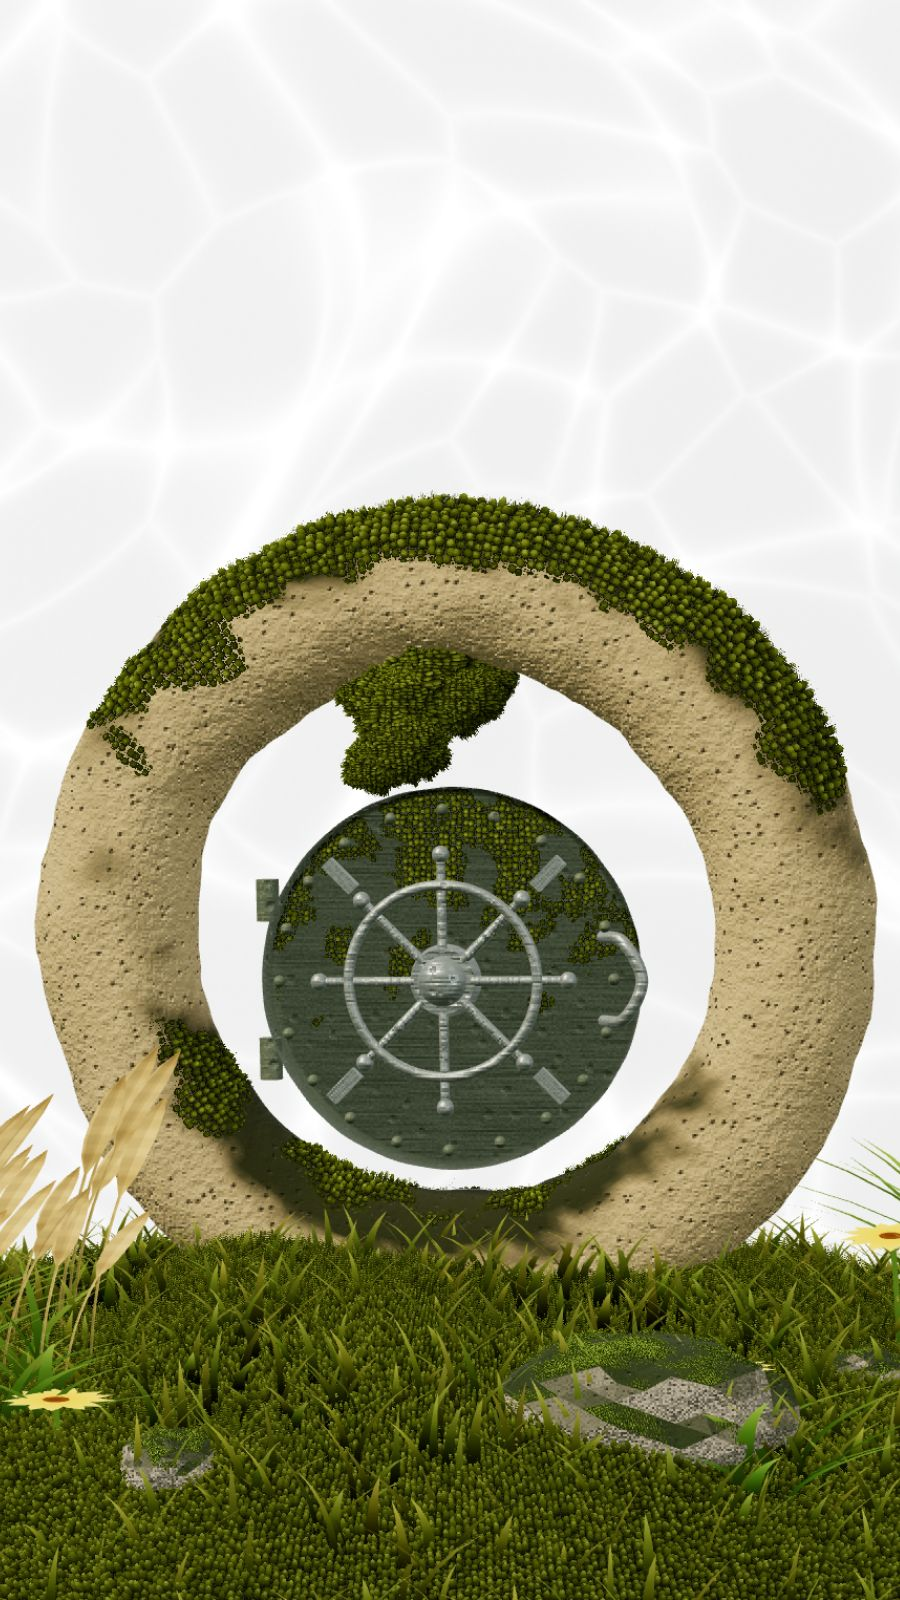
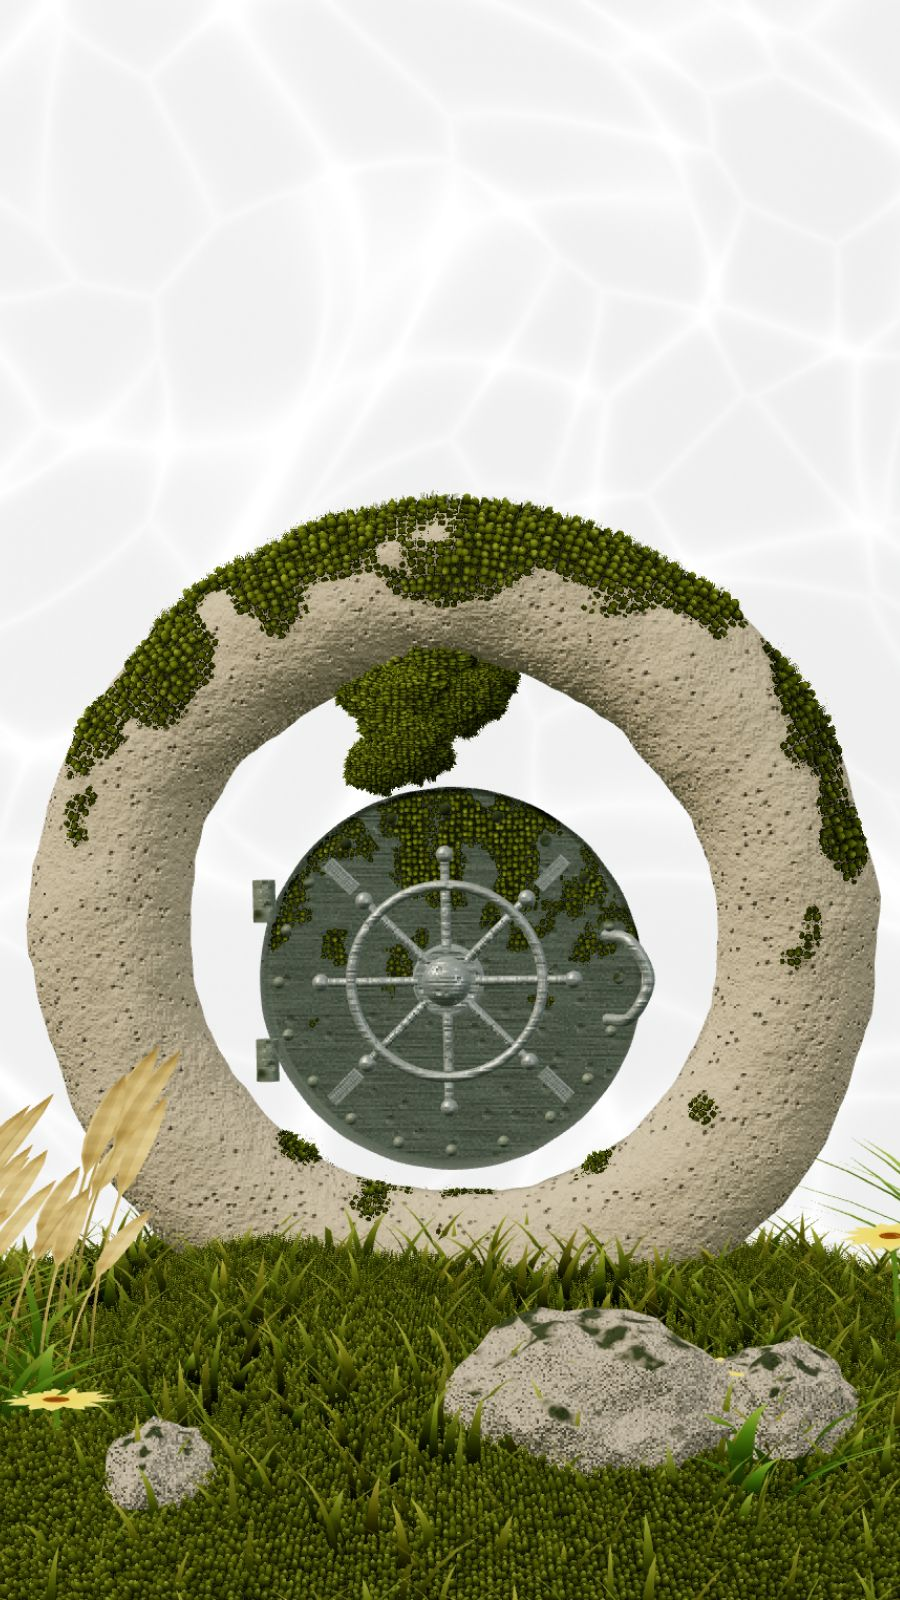
OQURO: closer tones to the shot, rounder rocks, vault opener as a button
Greyer stone, lighter steel, a darker threat card, a more frontal ring; moss
on surfaces worked out per pixel so coarse meshes show no facets; the moss on
the first letter anchored to where the letter rests; the footer word scaled
in the markup; the picker's OQURO trace drawn in dark ink; stills and share
image re-rendered.

Claude-Session: https://claude.ai/code/session_01XdHoYduenxD2TKkmvZHCgz

Changed region(s): [[0.0311, 0.3125, 1.0, 0.9375], [0.0933, 0.875, 0.2489, 0.9688]]

diff --git a/oquro/js/hero3d.js b/oquro/js/hero3d.js
@@ -47,14 +47,14 @@ export async function init() {
   // ---- the ring ----
   const ringG = K.ringGeometry({ outer: 1, inner: 0.63, depth: 0.36, corner: 0.17, segments: low ? 180 : 260, profile: low ? 56 : 80 });
   K.displace(ringG, (x, y, z) => noise3(x * 1.3, y * 1.3, z * 1.3) * 0.014 + noise3(x * 4.2 + 3, y * 4.2, z * 4.2) * 0.009 + noise3(x * 12, y * 12, z * 12) * 0.004);
-  const RING_MOSS = { moss: -0.1, mossUp: 1.35, mossY: 0.3, mossScale: 2.0, mossDir: [0.1, 1, 0.4], seed: [1.3, 0.2, 0.7] };
+  const RING_MOSS = { moss: -0.06, mossUp: 1.1, mossY: 0.25, mossScale: 2.3, mossDir: [0.1, 1, 0.4], seed: [1.3, 0.2, 0.7] };
   const stone = K.surfaceMaterial({
-    key: 'ring', c1: '#a08a5c', c2: '#e2cb9e', c3: '#5f4d2c', pore: 34, pit: 0.85, bump: 0.016, tone: 2.0,
+    key: 'ring', c1: '#988a70', c2: '#ddd1b6', c3: '#5c5040', pore: 34, pit: 0.85, bump: 0.016, tone: 2.0,
     ...RING_MOSS, mossA: '#2a2e05', mossB: '#6c7116',
   });
   const ring = new THREE.Mesh(ringG, stone); ring.castShadow = true; ring.receiveShadow = true;
   const ringGroup = new THREE.Group(); ringGroup.add(ring); world.add(ringGroup);
-  ringGroup.rotation.set(0.05, -0.2, 0.02);
+  ringGroup.rotation.set(0.05, -0.1, 0.02);
   const ringMoss = K.mossShells(ringG, {
     layers: low ? 12 : 18, thick: 0.034, density: [260, 260 * ringG.userData.perimeter / 5.1], fill: 0.7, ...RING_MOSS,
     mossA: '#22260a', mossB: '#646c14', tip: '#a6a845',
@@ -147,10 +147,10 @@ export async function init() {
 
   await breathe();
   // ---- rocks along the foot ----
-  const rockMat = K.surfaceMaterial({ key: 'rock', c1: '#857d6c', c2: '#c4b9a3', c3: '#4f4635', pore: 14, pit: 0.5, bump: 0.02, tone: 1.6, moss: -0.1, mossUp: 1.0, mossScale: 2.0, seed: [2, 7, 1], mossA: '#2a3610', mossB: '#6f8429' });
+  const rockMat = K.surfaceMaterial({ key: 'rock', c1: '#8c8270', c2: '#cfc4ad', c3: '#5a5040', pore: 26, pit: 0.35, bump: 0.02, tone: 1.6, moss: -0.25, mossUp: 1.2, mossScale: 2.0, seed: [2, 7, 1], mossA: '#2a3610', mossB: '#6f8429' });
   const rocks = [];
-  for (const [x, z, s, seed, rot] of [[-1.5, 0.78, 0.2, 2, 0.4], [0.42, 0.72, 0.27, 5, -0.3], [1.22, 0.66, 0.22, 8, 0.9], [-0.6, 0.86, 0.12, 3, 1.4], [0.92, 0.5, 0.1, 6, 0.2]]) {
-    const g = K.rockGeometry({ seed, sx: 1.25, sy: 0.75, sz: 0.95, detail: low ? 4 : 5 });
+  for (const [x, z, s, seed, rot] of [[-1.45, 0.8, 0.2, 2, 0.4], [0.3, 0.78, 0.26, 5, -0.3], [0.72, 0.72, 0.17, 4, 1.1], [1.25, 0.66, 0.2, 8, 0.9], [-0.62, 0.9, 0.13, 3, 1.4]]) {
+    const g = K.rockGeometry({ seed, sx: 1.2, sy: 1.0, sz: 0.95, detail: low ? 4 : 5, rough: 0.28 });
     const rk = new THREE.Mesh(g, rockMat); rk.scale.setScalar(s); rk.position.set(x, moundY(x, z) - s * 0.08, z); rk.rotation.y = rot;
     rk.castShadow = true; rk.receiveShadow = true; world.add(rk); rocks.push(rk);
   }
@@ -291,7 +291,7 @@ export async function init() {
     // parallax towards the pointer, and a slow breath
     const tx = fine && pointer.active ? pointer.nx : 0, ty = fine && pointer.active ? pointer.ny : 0;
     look.x = damp(look.x, tx, 2.5, dt); look.y = damp(look.y, ty, 2.5, dt);
-    ringGroup.rotation.y = -0.2 + look.x * 0.12 + Math.sin(t * 0.35) * 0.02;
+    ringGroup.rotation.y = -0.1 + look.x * 0.12 + Math.sin(t * 0.35) * 0.02;
     ringGroup.rotation.x = 0.05 + look.y * 0.05;
     world.rotation.y = look.x * 0.03;
     // scroll: the scene sinks and the ring tips back a touch

diff --git a/picker/picker.js b/picker/picker.js
@@ -347,12 +347,13 @@ const TRACES = {
   // the dial wanders.
   oquro: (() => {
     const at = { x: 0, y: 0, on: false, px: 0, py: 0, turn: 0 };
+    const DARK = '34 34 34';   // its still is pale water, so this one is drawn in OQURO's ink, not the picker's white
     const rings = [];
     return {
       reset() { at.on = false; rings.length = 0; },
       draw(r, o, on, dt) {
         if (o < 0.01 && !rings.length) return false;
-        const want_ = on && inside(r, ptr) ? ptr : { x: r.left + r.width * (0.5 + 0.22 * Math.sin(clock * 0.39)), y: r.top + r.height * (0.5 + 0.15 * Math.sin(clock * 0.63)) };
+        const want_ = on && inside(r, ptr) ? ptr : { x: r.left + r.width * (0.5 + 0.22 * Math.sin(clock * 0.39)), y: r.top + r.height * (0.3 + 0.1 * Math.sin(clock * 0.63)) };
         if (!at.on) { at.x = at.px = want_.x; at.y = at.py = want_.y; at.on = true; }
         const ease = 1 - Math.exp(-dt * 6);
         at.x += (want_.x - at.x) * ease; at.y += (want_.y - at.y) * ease;
@@ -363,7 +364,7 @@ const TRACES = {
           const q = rings[i]; q.t += dt;
           if (q.t > 1.8) { rings.splice(i, 1); continue; }
           const k = q.t / 1.8;
-          g.strokeStyle = `rgb(${INK} / ${0.4 * (1 - k) ** 2})`;
+          g.strokeStyle = `rgb(${DARK} / ${0.32 * (1 - k) ** 2})`;
           g.beginPath(); g.ellipse(q.x, q.y, 14 + k * 120, (14 + k * 120) * 0.42, 0, 0, Math.PI * 2); g.stroke();
         }
         // the dial: sixty ticks, every fifth long, closing round from the top as the card lights, turning slowly
@@ -373,11 +374,11 @@ const TRACES = {
         for (let i = 0; i < shown; i++) {
           const long = i % 5 === 0; const a = -Math.PI / 2 + (i / 60) * Math.PI * 2 + at.turn;
           const r0 = R - (long ? 13 : 7); const r1 = R;
-          g.strokeStyle = `rgb(${INK} / ${(long ? 0.9 : 0.45) * o})`;
+          g.strokeStyle = `rgb(${DARK} / ${(long ? 0.9 : 0.45) * o})`;
           g.beginPath(); g.moveTo(at.x + Math.cos(a) * r0, at.y + Math.sin(a) * r0); g.lineTo(at.x + Math.cos(a) * r1, at.y + Math.sin(a) * r1); g.stroke();
         }
         // and the mark in its middle: a hub with eight knobs
-        g.fillStyle = `rgb(${INK} / ${0.9 * o})`;
+        g.fillStyle = `rgb(${DARK} / ${0.9 * o})`;
         g.beginPath(); g.arc(at.x, at.y, 5.5, 0, Math.PI * 2); g.fill();
         for (let i = 0; i < 8; i++) { const a = (i / 8) * Math.PI * 2 - at.turn * 2; g.beginPath(); g.arc(at.x + Math.cos(a) * 11, at.y + Math.sin(a) * 11, 2, 0, Math.PI * 2); g.fill(); }
         g.restore();

diff --git a/oquro/js/gl/kit.js b/oquro/js/gl/kit.js
@@ -83,7 +83,8 @@ vField = vec4(fbm3(vObj * uTone), snoise(vObj * 1.7 + 4.0), mossMask(vObj, vWN),
 varying vec3 vObj; varying vec3 vWN; varying vec4 vField;
 uniform vec3 uC1, uC2, uC3, uMossA, uMossB; uniform float uPore, uPit, uGrain, uBump, uStreak;
 ${GLSL_NOISE}
-${GLSL_BUMP}`)
+${GLSL_BUMP}
+${GLSL_MOSS}`)
       .replace('#include <color_fragment>', `#include <color_fragment>
 float sTone = vField.x;
 float sGrain = snoise(vObj * 31.0) * 0.6 + snoise(vObj * 77.0) * 0.4;
@@ -95,7 +96,7 @@ sCol *= 0.93 + 0.09 * sGrain * uGrain;
 sCol = mix(sCol, uC3, sPit * uPit);
 sCol = mix(sCol, uC3, smoothstep(0.35, 0.9, vField.y) * 0.35);
 sCol *= 1.0 + sStreak * uStreak * 0.12;
-float sMoss = vField.z;
+float sMoss = uMoss > -0.9 ? mossMask(vObj, normalize(vWN)) : 0.0;   // per pixel: no facets on a coarse mesh
 vec3 sMossCol = mix(uMossA, uMossB, smoothstep(-0.4, 0.7, vField.w));
 diffuseColor.rgb = mix(sCol, sMossCol * 0.6, sMoss);
 float sH = (-sPit * 0.9 + sGrain * 0.22 * uGrain + sTone * 0.35 + sStreak * uStreak * 0.3) * (1.0 - sMoss * 0.7);`)
@@ -494,7 +495,7 @@ export function vaultDoor({ metal, moss = true } = {}) {
   const door = new THREE.Group(); group.add(door);
   const MOSS = { moss: -0.42, mossUp: 0.5, mossY: 0.62, mossDir: [-0.6, 1, 0.3], mossScale: 2.6, seed: [3, 1, 2] };
   const m = metal || surfaceMaterial({
-    key: 'steel', c1: '#5f6852', c2: '#8a9077', c3: '#4a4632', metalness: 0.55, roughness: 0.5, pore: 9, pit: 0.3, grain: 0.6, bump: 0.005, tone: 1.6, streak: 0.35,
+    key: 'steel', c1: '#6c7563', c2: '#9ca291', c3: '#4f4c3a', metalness: 0.55, roughness: 0.5, pore: 9, pit: 0.3, grain: 0.6, bump: 0.005, tone: 1.6, streak: 0.35,
     ...MOSS, mossA: '#2a3510', mossB: '#6f8128',
   });
   const bright = surfaceMaterial({ key: 'steel2', c1: '#8a928a', c2: '#c3c9c0', c3: '#5a5e55', metalness: 0.78, roughness: 0.36, pore: 12, pit: 0.2, grain: 0.5, bump: 0.004, tone: 2.2, streak: 0.6, moss: -1 });

diff --git a/oquro/js/scenes.js b/oquro/js/scenes.js
@@ -35,7 +35,7 @@ export async function init() {
   };
   const rockMat = (o = {}) => K.surfaceMaterial({ key: 'rock2', c1: '#8a8475', c2: '#d2cab6', c3: '#5a5241', pore: 22, pit: 0.3, bump: 0.018, tone: 1.2, moss: 0.05, mossUp: 1.3, mossScale: 1.8, seed: [4, 2, 9], mossA: '#2a2e07', mossB: '#5f6a16', ...o });
   const addRock = (parent, { x, y, z, s, sx = 1.2, sy = 0.8, sz = 1, seed = 1, ry = 0, rx = 0, mat, moss = true }) => {
-    const g = K.rockGeometry({ seed, sx, sy, sz, detail: low ? 4 : 5, rough: 0.2 });
+    const g = K.rockGeometry({ seed, sx, sy, sz, detail: (low ? 4 : 5) + (s > 0.6 ? 1 : 0), rough: 0.2 });   // big ones closer to the camera get more faces
     const m = new THREE.Mesh(g, mat); m.position.set(x, y, z); m.scale.setScalar(s); m.rotation.set(rx, ry, 0);
     m.castShadow = true; m.receiveShadow = true; parent.add(m);
     if (moss) m.add(K.mossShells(g, { layers: low ? 8 : 12, thick: 0.06, density: [150, 150], fill: 0.7, moss: 0.05, mossUp: 1.3, mossScale: 1.8, seed: [4, 2, 9], mossA: '#22260a', mossB: '#5f6814', tip: '#a3a443' }));

diff --git a/oquro/index.html b/oquro/index.html
@@ -324,7 +324,7 @@
       <nav class="foot__col" aria-label="Features"><h3>Features</h3><a href="#features">Live Monitoring</a><a href="#features">AI Intelligence</a><a href="#features">Auto Response</a><a href="#ahead">Performance</a></nav>
       <nav class="foot__col" aria-label="Company"><h3>Company</h3><a href="#about">About</a><a href="#start">Get started</a><a href="../">More sites</a></nav>
     </div>
-    <p class="foot__word" aria-hidden="true" data-foot-word>OQURO</p>
+    <p class="foot__word" aria-hidden="true" data-foot-word><span>OQURO</span></p>
     <div class="wrap foot__base">
       <p>© {{YEAR}} OQURO. A design study — the company, its numbers and its threats are fictional.</p>
       <button class="link-u" type="button" data-to-top><span data-roll>Back to top</span></button>

diff --git a/oquro/js/reveals.js b/oquro/js/reveals.js
@@ -104,9 +104,8 @@ export async function init() {
   // ---- the footer word, letter by letter, and letters that lift under the pointer ----
   const fw = document.querySelector('[data-foot-word]');
   if (fw) {
-    const inner = document.createElement('span');
-    inner.innerHTML = [...fw.textContent].map((c) => `<span class="ch">${c}</span>`).join('');
-    fw.replaceChildren(inner);
+    const inner = fw.firstElementChild;
+    inner.innerHTML = [...inner.textContent].map((c) => `<span class="ch">${c}</span>`).join('');
     const chars = inner.querySelectorAll('.ch');
     gsap.from(chars, { yPercent: 100, duration: 1.4, ease: 'expo.out', stagger: 0.07, scrollTrigger: { trigger: fw, start: 'top 95%', once: true } });
     fw.style.overflow = 'hidden';

diff --git a/oquro/css/widgets.css b/oquro/css/widgets.css
@@ -14,7 +14,8 @@
   background: radial-gradient(60% 50% at var(--gx, 30%) var(--gy, 0%), rgb(255 255 255 / 0.16), transparent 70%);
   mix-blend-mode: soft-light; opacity: var(--glow, 0.8);
 }
-.widget--red { --c0: #ff6a5f; --c1: #b3302b; --c2: #5c1716; --c3: #250909; }
+.widget--red { --c0: #ff6a5f; --c1: #a82522; --c2: #4c100f; --c3: #1a0505; }
+.widget--threat { box-shadow: inset 0 0 0 0.1em rgb(255 255 255 / 0.12), 0 0 0 0.15em rgb(20 10 10 / 0.55), 0 2.4em 4em -1.6em rgb(0 0 0 / 0.45); }
 .widget--green { --c0: #4ee26a; --c1: #179a33; --c2: #0a5a1b; --c3: #062e0e; }
 .widget--purple { --c0: #f0a6ff; --c1: #b351e6; --c2: #5f1d8f; --c3: #2a0b42; }
 .widget--blue { --c0: #8fd2ff; --c1: #2d86d6; --c2: #134a86; --c3: #08213e; }
